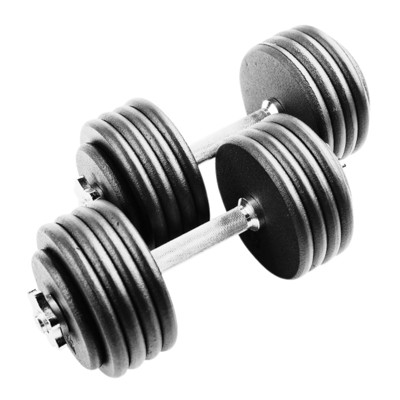
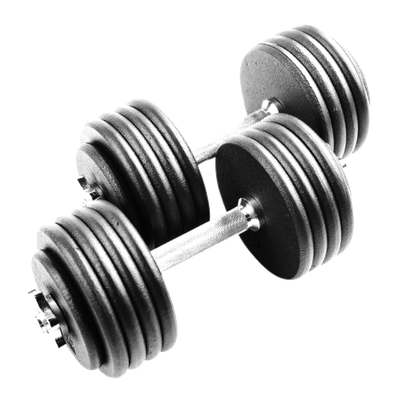
Remove white backgrounds from marker PNGs, remove CSS filter and opacity
All 7 marker PNGs re-processed with Pillow to strip white backgrounds
to transparent. Removed grayscale filter and opacity from .marker-image
so images display as-is.

diff --git a/app/globals.css b/app/globals.css
@@ -93,8 +93,6 @@ body {
 
 /* Floating markers on auth screen */
 .marker-image {
-  filter: grayscale(100%) contrast(1.3);
-  opacity: 0.4;
 }
 
 @keyframes marker-hover {
